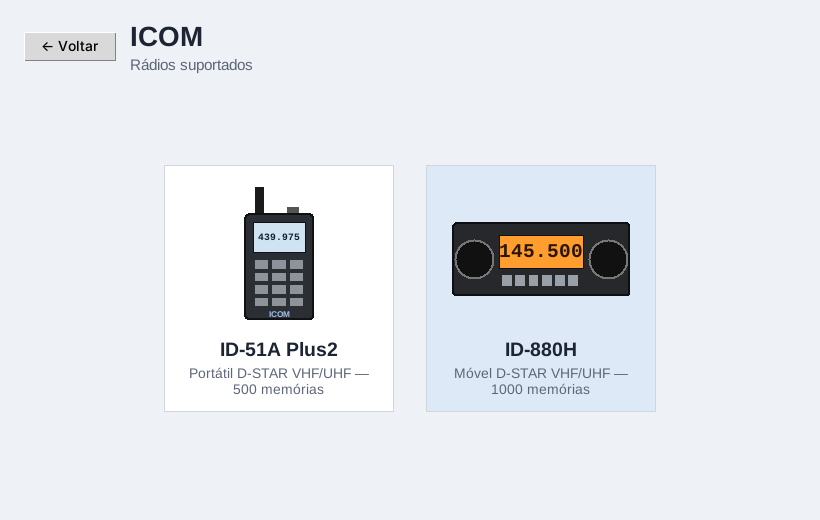
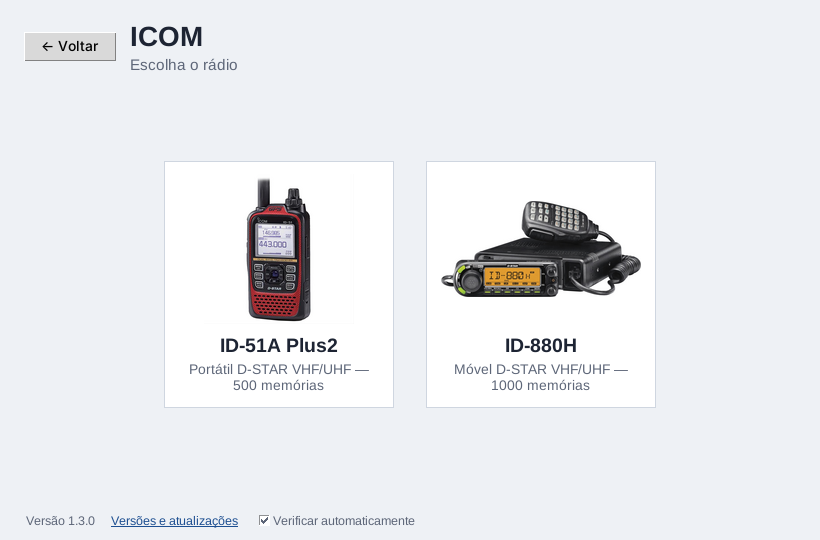
Tela inicial por fabricante e fotos reais dos rádios
- Páginas de fabricante geradas a partir de BRANDS (incluir um rádio é
  acrescentar uma linha)
- Fotos do TS-2000, ID-51A Plus2 e ID-880H nos botões

Claude-Session: https://claude.ai/code/session_01FsbZfYK12EtgYocvBr4rQZ

diff --git a/launcher/app.py b/launcher/app.py
@@ -17,6 +17,23 @@ TEXT = "#1d2433"
 MUTED = "#5d6678"
 
 
+# Fabricantes e rádios da tela inicial. Para incluir um rádio, acrescente
+# (chave, modelo, descrição, tamanho da figura) na lista do fabricante e
+# trate a chave em Launcher.open_radio.
+BRANDS = {
+    "kenwood": ("Kenwood", "Transceptores HF/VHF/UHF", [
+        ("ts2000", "TS-2000",
+         "Memórias, menus e display em tempo real (CAT serial)", (260, 130)),
+    ]),
+    "icom": ("ICOM", "Portáteis e móveis D-STAR", [
+        ("id51plus2", "ID-51A Plus2",
+         "Portátil D-STAR VHF/UHF — 500 memórias", (200, 150)),
+        ("id880h", "ID-880H", "Móvel D-STAR VHF/UHF — 1000 memórias",
+         (200, 150)),
+    ]),
+}
+
+
 class Card(tk.Frame):
     """Botão grande com imagem, título e descrição."""
 
@@ -141,28 +158,31 @@ class Launcher(tk.Tk):
     def show_home(self) -> None:
         body = self._new_page("PT2VHF Prog Tool",
                               "Escolha o fabricante do rádio")
-        Card(body, "kenwood", "Kenwood", "Transceptores HF/VHF/UHF",
-             self.show_kenwood).grid(row=0, column=0, padx=16, pady=16)
-        Card(body, "icom", "ICOM", "Portáteis e móveis D-STAR",
-             self.show_icom).grid(row=0, column=1, padx=16, pady=16)
+        for col, (key, (name, sub, _)) in enumerate(BRANDS.items()):
+            Card(body, key, name, sub,
+                 lambda k=key: self.show_brand(k)).grid(
+                row=0, column=col, padx=16, pady=16)
 
+    def show_brand(self, brand: str) -> None:
+        name, _, radios = BRANDS[brand]
+        body = self._new_page(name, "Escolha o rádio", back=True)
+        for i, (key, model, sub, size) in enumerate(radios):
+            r, c = divmod(i, 3)
+            Card(body, key, model, sub, lambda k=key: self.open_radio(k),
+                 pic_size=size).grid(row=r, column=c, padx=16, pady=16)
+
+    # compatibilidade
     def show_kenwood(self) -> None:
-        body = self._new_page("Kenwood", "Rádios suportados", back=True)
-        Card(body, "ts2000", "TS-2000",
-             "Memórias, menus e display em tempo real (CAT serial)",
-             self.open_ts2000, pic_size=(260, 130)).grid(row=0, column=0,
-                                                         padx=16, pady=16)
+        self.show_brand("kenwood")
 
     def show_icom(self) -> None:
-        body = self._new_page("ICOM", "Rádios suportados", back=True)
-        Card(body, "id51plus2", "ID-51A Plus2",
-             "Portátil D-STAR VHF/UHF — 500 memórias",
-             lambda: self.open_icom("id51plus2"),
-             pic_size=(200, 150)).grid(row=0, column=0, padx=16, pady=16)
-        Card(body, "id880h", "ID-880H",
-             "Móvel D-STAR VHF/UHF — 1000 memórias",
-             lambda: self.open_icom("id880h"),
-             pic_size=(200, 150)).grid(row=0, column=1, padx=16, pady=16)
+        self.show_brand("icom")
+
+    def open_radio(self, key: str) -> None:
+        if key == "ts2000":
+            self.open_ts2000()
+        else:
+            self.open_icom(key)
 
     # --------------------------------------------------------- editores
     def _open(self, key: str, factory) -> None:
